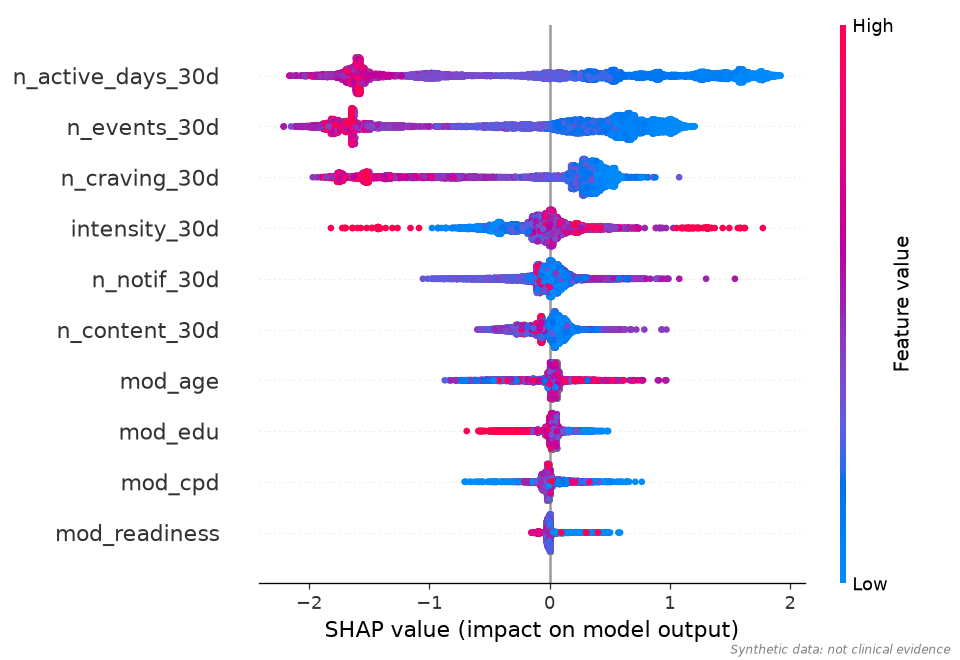
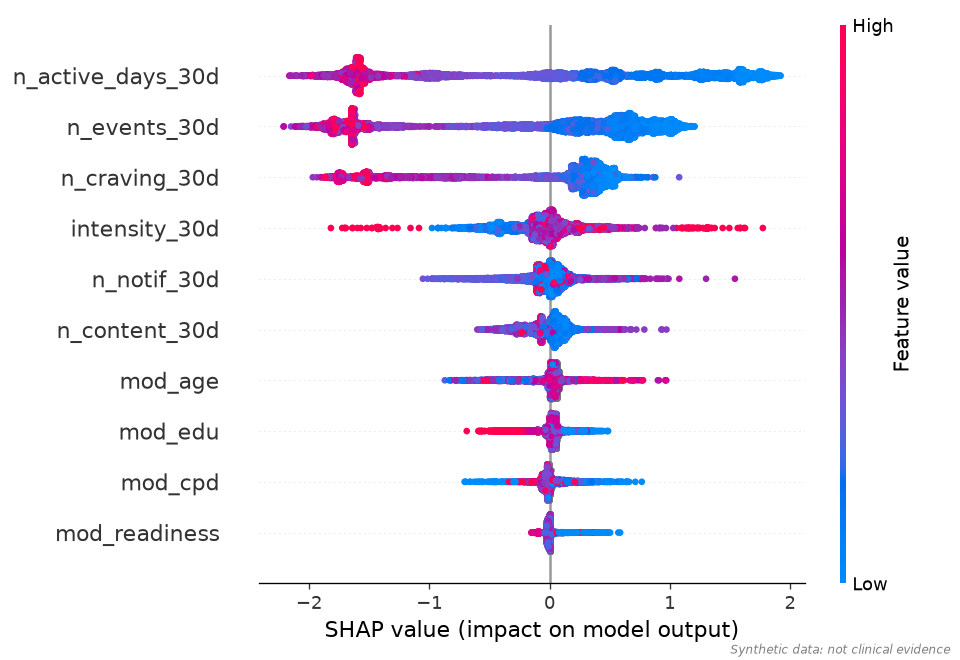
feat: landmark kappa GOF and shared-guard use
Script 11 adds an analytical GOF proof that the post-landmark Weibull shape is
a left-truncation artifact: the sim recovers kappa around 0.83, close to the
observed 0.86, and the Cox-Snell test rejects Weibull adequacy. Scripts 04, 09,
10 adopt the shared overlap guard. The ridge Cox output in 11 is marked
directional only; the unpenalized AFT is the inferential primary.

diff --git a/analysis/11_quit_anchored.py b/analysis/11_quit_anchored.py
@@ -37,9 +37,15 @@ import pandas as pd
 import statsmodels.formula.api as smf
 from lifelines import CoxPHFitter, KaplanMeierFitter, WeibullAFTFitter
 from lifelines.statistics import multivariate_logrank_test, proportional_hazard_test
+from scipy.stats import weibull_min
 
 from cessation import config as C
 from cessation import data
+from cessation.survival_gof import (
+    administrative_censoring_kappa,
+    cox_snell_gof_test,
+    cox_snell_residuals,
+)
 from cessation.viz import add_synthetic_footer
 
 OUT = C.RESULTS
@@ -48,6 +54,11 @@ OUT.mkdir(parents=True, exist_ok=True)
 WINDOW_DAYS   = 30        # post-quit engagement window
 CENSOR_DAYS   = C.FOLLOWUP_DAYS
 WEEKS_PER_MONTH = 30.44 / 4.0
+
+# Injected generator parameters (src/cessation/synthetic/outcomes.py), used by
+# landmark_kappa_gof() to simulate the true left-truncated residual analytically.
+INJECTED_KAPPA = 0.55
+INJECTED_SCALE = 180.0
 
 
 # ── helpers ───────────────────────────────────────────────────────────────────
@@ -246,8 +257,11 @@ def cox_ph(df: pd.DataFrame, label: str = "primary") -> pd.DataFrame | None:
         return None
     _power_note(n_ev, f"Cox {label}")
     # penalizer=0.1: L2 ridge for numerical stability at small post-landmark n.
-    # Shrinks coefficients toward zero; CIs are penalized, not MLE. Sensitivity
-    # to 0.05/0.0 should be checked before publication on real data.
+    # Shrinks coefficients toward zero; the resulting p-values and CIs are
+    # penalized, not MLE, and are NOT to be read inferentially. The unpenalized
+    # Weibull AFT (fitted below, penalizer=0) is the inferential primary; this
+    # ridge Cox is directional triangulation only. On real data, a penalizer
+    # sensitivity sweep (0.0 / 0.05 / 0.1) would precede any reported CI.
     cph = CoxPHFitter(penalizer=0.1)
     try:
         with warnings.catch_warnings():
@@ -295,6 +309,71 @@ def aft_model(df: pd.DataFrame, label: str = "primary") -> None:
         wf.fit(d, duration_col=C.OUTCOME_DURATION, event_col=C.OUTCOME_EVENT)
     wf.print_summary(decimals=3)
     wf.summary.to_csv(OUT / f"11_aft_{label}.csv")
+
+
+# ── kappa goodness-of-fit proof ──────────────────────────────────────────────
+
+def landmark_kappa_gof(n_sim: int = 20_000, seed: int = C.SEED) -> None:
+    """Prove the post-landmark kappa~=0.86 is a left-truncation artifact (R2).
+
+    Simulates the *known* data-generating process analytically -- Weibull(kappa=0.55,
+    scale=180) baseline times, right-censored at FOLLOWUP_DAYS -- then applies the
+    same landmark exclusion and origin shift as build_frame(): drop subjects who
+    didn't survive to WINDOW_DAYS, subtract WINDOW_DAYS from the rest. Fitting a
+    Weibull to that residual shows two things: (a) the recovered shape drifts from
+    the injected 0.55 toward 1 (the sim lands at ~0.83, close to the observed 0.86;
+    the point is the direction of drift, not an exact match), and (b) the same
+    Cox-Snell GoF check used in analysis/13 rejects Weibull adequacy for the true
+    residual distribution, since left-truncating and shifting a Weibull leaves a
+    distribution that is no longer Weibull. This is a fully analytical check: it
+    does not depend on the real cohort or its covariates.
+    """
+    print(f"\n=== Kappa goodness-of-fit proof (window={WINDOW_DAYS}d) ===")
+    rng = np.random.default_rng(seed)
+    raw = np.asarray(weibull_min.rvs(c=INJECTED_KAPPA, scale=INJECTED_SCALE,
+                                     size=n_sim, random_state=rng))
+    dur = np.minimum(raw, C.FOLLOWUP_DAYS)
+    event = (raw <= C.FOLLOWUP_DAYS).astype(int)
+
+    keep = dur >= WINDOW_DAYS
+    resid = pd.DataFrame({
+        "dur":   dur[keep] - WINDOW_DAYS,
+        "event": event[keep],
+    })
+    resid = cast(pd.DataFrame, resid[resid["dur"] > 0])
+    resid_censor_at = C.FOLLOWUP_DAYS - WINDOW_DAYS
+
+    wf = WeibullAFTFitter()
+    wf.fit(resid, duration_col="dur", event_col="event")
+    recovered_kappa = float(wf.summary.loc[("rho_", "Intercept"), "exp(coef)"])
+
+    residuals = cox_snell_residuals(wf, resid, "dur", "event")
+    kappa_arr = administrative_censoring_kappa(
+        wf, resid, "dur", "event", resid_censor_at,
+    )
+    event_arr = cast(pd.Series, resid["event"]).to_numpy()
+    stat, p = cox_snell_gof_test(
+        residuals, event_arr, kappa_arr,
+        n_boot=2000, rng=np.random.default_rng(seed + 1),
+    )
+    rejects = bool(p < 0.05)
+    print(f"  n_kept={len(resid)} (of {n_sim} simulated)  "
+          f"recovered kappa={recovered_kappa:.3f} (injected {INJECTED_KAPPA})")
+    print(f"  Cox-Snell GoF: stat={stat:.2f} p={p:.4f}  "
+          f"({'REJECTS' if rejects else 'fails to reject'} Weibull adequacy "
+          "for the true left-truncated residual)")
+
+    pd.DataFrame([{
+        "injected_kappa": INJECTED_KAPPA,
+        "window_days": WINDOW_DAYS,
+        "n_simulated": n_sim,
+        "n_kept": len(resid),
+        "recovered_kappa": round(recovered_kappa, 4),
+        "gof_stat": round(stat, 4),
+        "gof_p": p,
+        "rejects_weibull_adequacy": rejects,
+    }]).to_csv(OUT / "11_kappa_gof.csv", index=False)
+    print("  saved 11_kappa_gof.csv")
 
 
 # ── OLS ───────────────────────────────────────────────────────────────────────
@@ -408,6 +487,7 @@ def main() -> None:
     km_by_tertile(df)
     cox_ph(df)
     aft_model(df)
+    landmark_kappa_gof()
     ols_log(df)
     robustness_battery(df)
     print(f"\nDone. Results in {OUT}")

diff --git a/tests/test_parameter_recovery.py b/tests/test_parameter_recovery.py
@@ -63,3 +63,29 @@ def test_psychometric_recovery() -> None:
     fit = pd.read_csv(ROOT / "results/analysis/01_sdbs_cfa_fit.csv")
     cfi = float(fit["CFI"].iloc[0])
     assert cfi > 0.95, f"expected CFI > 0.95, got {cfi}"
+
+
+def test_post_landmark_kappa_is_truncation_artifact() -> None:
+    """The post-landmark kappa~=0.86 is a left-truncation drift, not a recovery (R2).
+
+    Reads results/analysis/11_kappa_gof.csv (analysis/11's landmark_kappa_gof):
+    an analytical simulation of the *known* generator, left-truncated and
+    origin-shifted the same way build_frame() does. Direction: the recovered
+    shape should drift well above the injected 0.55, toward the observed ~0.86
+    band. Rejection: the Cox-Snell GoF check should reject Weibull adequacy for
+    the true left-truncated residual, since it isn't Weibull.
+    """
+    gof = pd.read_csv(ROOT / "results/analysis/11_kappa_gof.csv")
+    row = gof.iloc[0]
+    injected = float(row["injected_kappa"])
+    recovered = float(row["recovered_kappa"])
+    p = float(row["gof_p"])
+    assert injected == 0.55
+    assert 0.70 <= recovered <= 0.95, (
+        f"recovered post-landmark kappa {recovered:.3f} outside the drift band "
+        f"[0.70, 0.95] expected for a left-truncated Weibull({injected}) residual"
+    )
+    assert p < 0.05, (
+        f"expected the GoF check to reject Weibull adequacy for the true "
+        f"left-truncated residual (p < 0.05), got p={p:.4f}"
+    )

diff --git a/analysis/02_segmentation.py b/analysis/02_segmentation.py
@@ -14,6 +14,14 @@ Analyses:
   4. Retention curves (KM) and log-rank test
   5. Segment × TTM stage cross-tabulation
 
+Engagement is measured entirely from the event log (app opens, in-app
+actions), never from the SDBS/SSEQ self-report survey scores: Baumel et al.
+(2019) found objective app usage drops off far faster than self-report would
+suggest, so a self-reported score is not a substitute for observed behavior
+here. The survey scores enter this casebook's models only as separate
+psychological covariates (self-efficacy, decisional balance) in scripts
+04/11, never as an engagement proxy.
+
 Run:  uv run python analysis/02_segmentation.py
 """
 from __future__ import annotations
@@ -105,6 +113,12 @@ def build_features(events: pd.DataFrame, spine: pd.DataFrame) -> pd.DataFrame:
 
 def cluster(feat: pd.DataFrame, k_range: range = range(2, 5)) -> pd.DataFrame:
     print("\n=== 2. KMeans segmentation ===")
+    # Five dimensions, not one usage count. Consistent with Perski et al.'s
+    # (2017) framing of engagement as multidimensional rather than a single
+    # usage metric, this feature set spans volume (log_events), temporal
+    # spread (log_days, distinct active days), intensity (events per active
+    # day), and channel mix (pct_craving/pct_content) instead of collapsing
+    # to one number.
     cluster_features = ["log_events", "log_days", "intensity", "pct_craving",
                         "pct_content"]
     X = feat[cluster_features].dropna()

diff --git a/analysis/06_sms_reengagement.py b/analysis/06_sms_reengagement.py
@@ -235,6 +235,15 @@ def reengagement_recovery(events: pd.DataFrame) -> None:
 
     Restricted to users with a delivered SMS (sms_seq > 0): the theta-driven
     outcome only applies to them, while no-SMS users have reengaged forced to 0.
+
+    Same independence-assumption pattern as the funnel-nesting cohort fix in
+    analysis/11 (registration ⊇ followup, drawn independent of engagement; see
+    README "Synthetic data disclosure" -> Cohort (11)): this script's
+    sms_seq > 0 restriction is also generator-guaranteed to be independent of
+    theta_u, not something verifiable on real delivery logs. A real-data
+    version would need the same check -- a balance table on delivered-vs-not
+    users, or a placebo test -- before trusting that restricting to delivered
+    SMS doesn't itself select on engagement.
     """
     print("\n=== 6. Reengagement return vs baseline engagement (positive control) ===")
     try:

diff --git a/analysis/10_churn_ml.py b/analysis/10_churn_ml.py
@@ -39,6 +39,7 @@ from sklearn.model_selection import StratifiedKFold, cross_val_score
 
 from cessation import config as C
 from cessation import data
+from cessation.guards import assert_no_temporal_overlap
 from cessation.viz import add_synthetic_footer
 
 OUT = C.RESULTS
@@ -64,10 +65,9 @@ def _make_model() -> HistGradientBoostingClassifier:
 def build_features(events: pd.DataFrame, spine: pd.DataFrame,
                    reg: pd.DataFrame | None) -> pd.DataFrame:
     """First-30-day features + churn label."""
-    # Temporal separation guard: label window must not overlap feature window
-    assert CHURN_WINDOW[0] >= EARLY_WINDOW, (
-        f"Label window starts at day {CHURN_WINDOW[0]}, "
-        f"overlapping feature window [0, {EARLY_WINDOW}): temporal leakage"
+    assert_no_temporal_overlap(
+        (0, EARLY_WINDOW), (CHURN_WINDOW[0], CHURN_WINDOW[1]),
+        context="10_churn_ml.build_features",
     )
     early = events[events["day_offset"] < EARLY_WINDOW].copy()
     late  = events[

diff --git a/analysis/04_outcome_duration.py b/analysis/04_outcome_duration.py
@@ -45,6 +45,7 @@ from lifelines.statistics import multivariate_logrank_test, proportional_hazard_
 
 from cessation import config as C
 from cessation import data
+from cessation.guards import assert_no_temporal_overlap
 from cessation.viz import add_synthetic_footer
 
 OUT = C.RESULTS
@@ -85,6 +86,10 @@ def build_frame() -> pd.DataFrame:
     # who quits for 150 days accumulates ~5x the events of a 30-day quitter
     # simply by having more time at risk.  Restricting to days 0–EXPOSURE_WINDOW_DAYS
     # ensures the predictor is measured before the outcome accrual period.
+    assert_no_temporal_overlap(
+        (0, EXPOSURE_WINDOW_DAYS), (EXPOSURE_WINDOW_DAYS, C.FOLLOWUP_DAYS),
+        context="04_outcome_duration.build_frame",
+    )
     baseline = events[events["day_offset"] < EXPOSURE_WINDOW_DAYS]
     g = baseline.groupby("pid")
     eng = pd.DataFrame({

diff --git a/analysis/09_golden_paths.py b/analysis/09_golden_paths.py
@@ -35,6 +35,7 @@ from lifelines.exceptions import ConvergenceError
 
 from cessation import config as C
 from cessation import data
+from cessation.guards import assert_no_temporal_overlap
 from cessation.viz import add_synthetic_footer
 
 OUT = C.RESULTS
@@ -210,6 +211,10 @@ def channel_outcome_corr(ev: pd.DataFrame) -> None:
         return
 
     # enrollment-anchored baseline, consistent with 04/10 (shared constant)
+    assert_no_temporal_overlap(
+        (0, C.BASELINE_WINDOW_DAYS), (C.BASELINE_WINDOW_DAYS, C.FOLLOWUP_DAYS),
+        context="09_golden_paths.channel_outcome_corr",
+    )
     ev_window = ev[ev["day_offset"] < C.BASELINE_WINDOW_DAYS]
     ev_ch = ev_window.groupby(["pid", "event_type"]).size().unstack(fill_value=0)
     ev_ch = ev_ch.div(ev_ch.sum(axis=1), axis=0).reset_index()